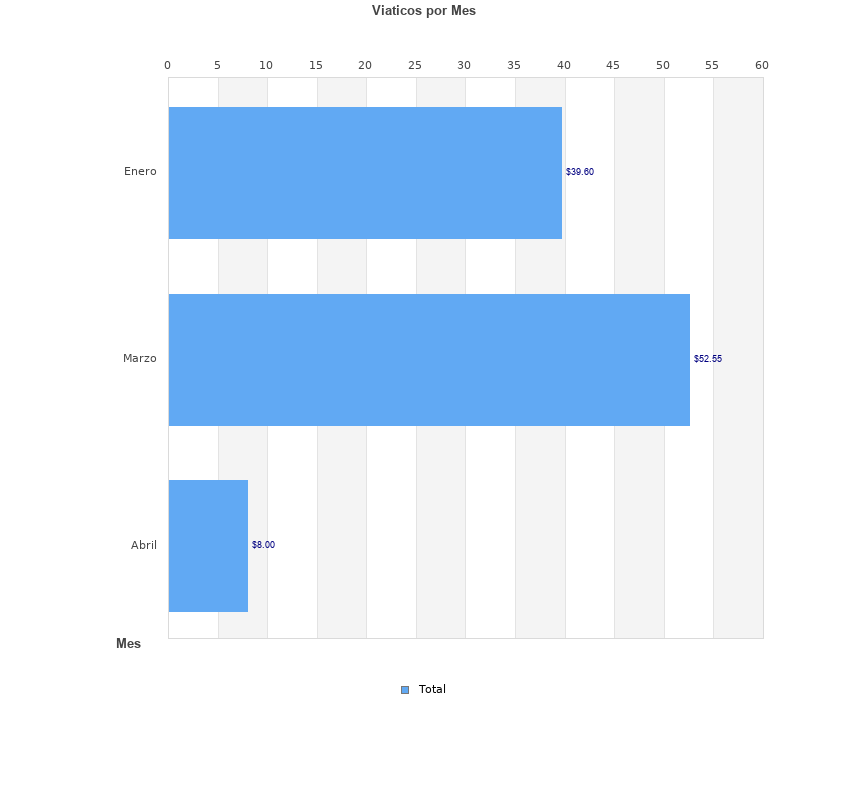
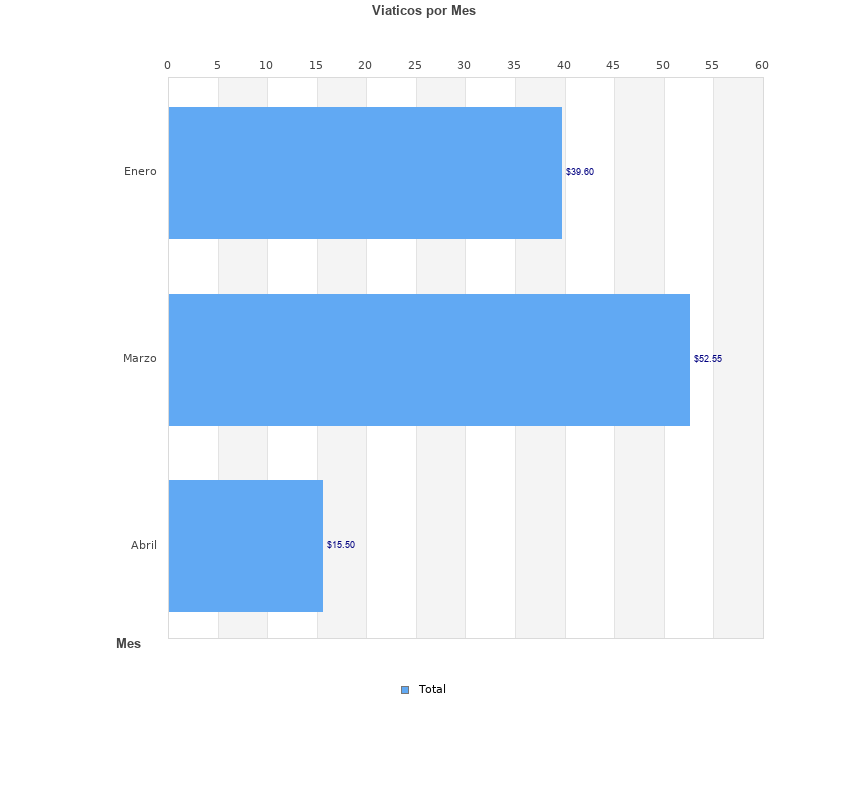
reporte poliza

Changed region(s): [[0.2753, 0.5938, 0.4282, 0.7812]]

diff --git a/application/models/Reportes_viaticos_model.php b/application/models/Reportes_viaticos_model.php
@@ -233,7 +233,7 @@ SELECT p.id_mision_pasajes as id_mision_oficial,p.nr as nr_empleado,(SELECT conc
     }
     function poliza_anual($data){
       $anios = $data['anio'];
-       $viaticos= $this->db->query("SELECT * FROM(SELECT `id_poliza`,`no_doc`,`no_poliza`,`mes_poliza`,`fecha_elaboracion`,`no_cuenta_cheque`,`nr`,`fecha_mision` ,`nombre_empleado`,`detalle_mision`,`sede`,`cargo_funcional`,`linea_presup1`,`linea_presup2`, sum(`viatico`) as viatico,sum(`pasaje`) as pasaje,sum(`total`) as total,`mes`,`anio`,`nombre_banco`,`cuenta_bancaria`,`fecha_cancelado`,`cod_presupuestario`,`id_mision`,`fecha_elaboracion_poliza`,`nr_elaborador`,`estado` FROM vyp_poliza WHERE year(fecha_mision)='$anios' GROUP BY no_poliza UNION SELECT '','','',`mes_poliza`,'','','','' ,'','','','','','', sum(`viatico`),sum(`pasaje`),sum(`total`),concat(mes,'','A'),`anio`,'','','','','','','','' FROM vyp_poliza WHERE year(fecha_mision)='$anios' GROUP by mes) as poliza ORDER BY poliza.mes ASC, poliza.no_poliza ASC");
+       $viaticos= $this->db->query("SELECT * FROM(SELECT `id_poliza`,`no_doc`,`no_poliza`,`mes_poliza`,`fecha_elaboracion`,`no_cuenta_cheque`,`nr`,`fecha_mision` ,`nombre_empleado`,`detalle_mision`,`sede`,`cargo_funcional`,`linea_presup1`,`linea_presup2`, sum(`viatico`) as viatico,sum(`pasaje`) as pasaje,sum(`total`) as total,`mes`,`anio`,`nombre_banco`,`cuenta_bancaria`,`fecha_cancelado`,`cod_presupuestario`,`id_mision`,`fecha_elaboracion_poliza`,`nr_elaborador`,`estado` FROM vyp_poliza WHERE (anio)='$anios' GROUP BY no_poliza UNION SELECT '','','',`mes_poliza`,'','','','' ,'','','','','','', sum(`viatico`),sum(`pasaje`),sum(`total`),concat(mes,'','A'),`anio`,'','','','','','','','' FROM vyp_poliza WHERE (anio)='$anios' GROUP by mes) as poliza ORDER BY poliza.mes ASC, poliza.no_poliza ASC");
         return $viaticos;
     }
 }

diff --git a/application/controllers/informes/Menu_reportes.php b/application/controllers/informes/Menu_reportes.php
@@ -2740,6 +2740,7 @@ class Menu_reportes extends CI_Controller {
 		$this->crear_grafico_viaticos_x_mes_totales($anio,$primer_mes,$segundo_mes,$tercer_mes,$cuarto_mes,$quinto_mes,$sexto_mes);
 		$viatico = $this->Reportes_viaticos_model->obtenerViaticosPorPeriodo($data);
 		$cuerpo = '
+		Año: '.$anio.'
 			<table  class="" border="1" style="width:100%">
 				<thead >
 					<tr>
